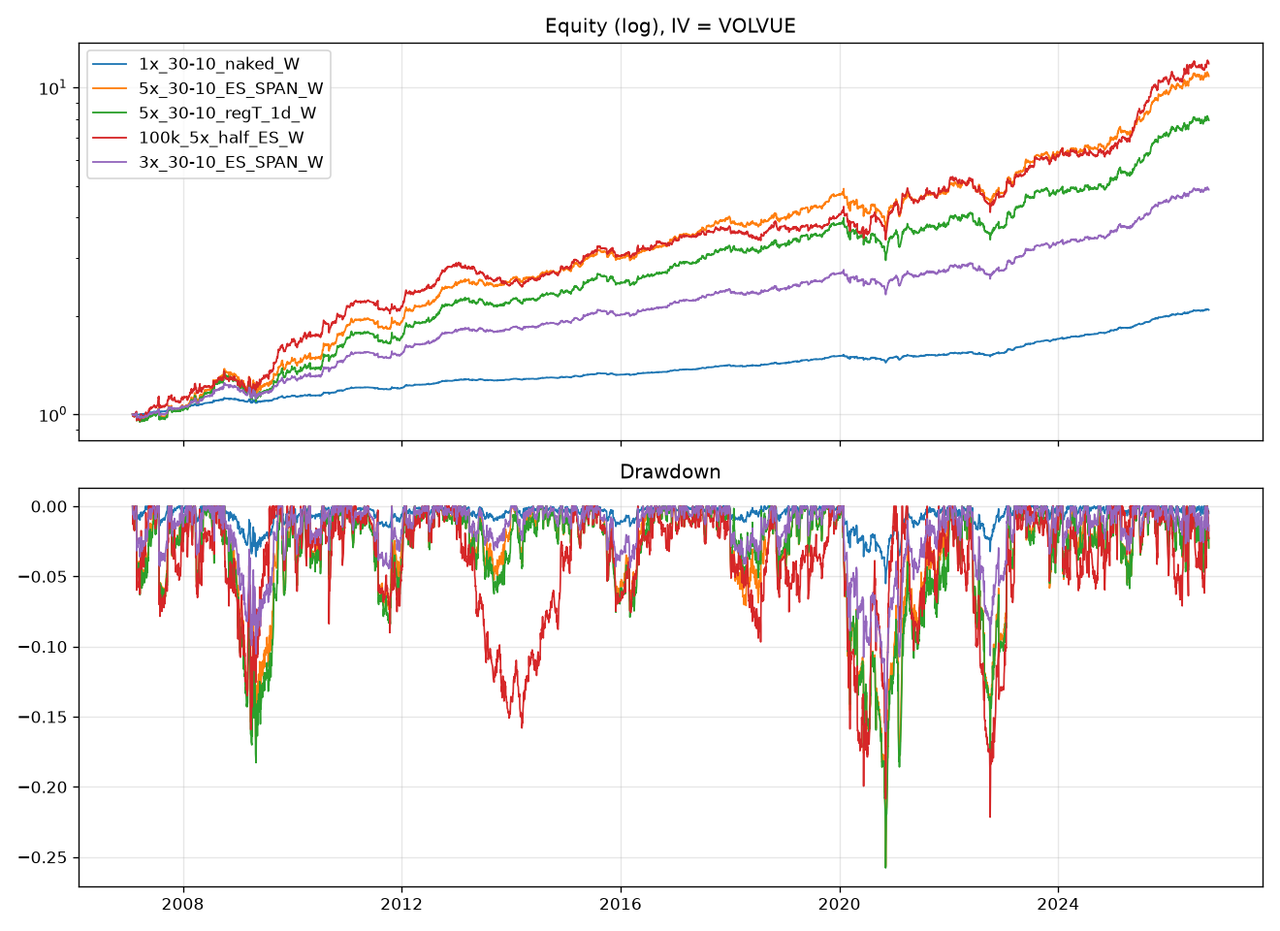
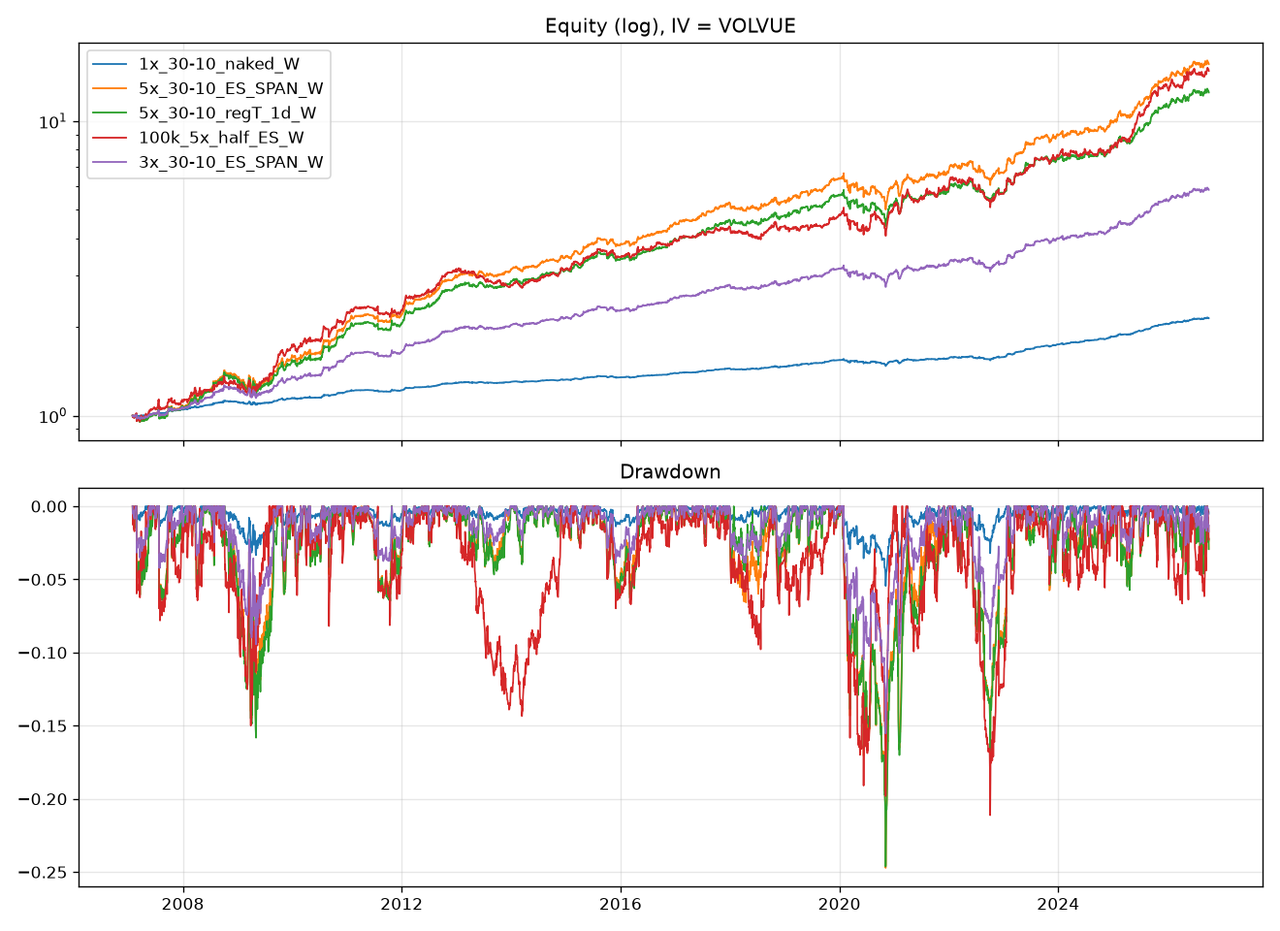
Rerun VolVue grid with capped commissions; reconciliation section in README
Claude-Session: https://claude.ai/code/session_012k49oKDkfWwZ7FWWKVDNps

diff --git a/results/risk_VOLVUE.md b/results/risk_VOLVUE.md
@@ -2,55 +2,58 @@
 
 ## Distribution & tails (monthly returns)
 
-|                              | cagr   | vol    |   sharpe |   sortino | maxdd   |   calmar |   dd_duration_days |   beta |   down_beta | worst_month   | worst_3m   | worst_12m   | var95_m   | cvar95_m   |   skew_m |   kurt_m | pct_pos_months   | avg_in_spy_down_m   | avg_in_spy_worst10   |   sharpe_2h |   calmar_2h | maxdd_2h   |
-|:-----------------------------|:-------|:-------|---------:|----------:|:--------|---------:|-------------------:|-------:|------------:|:--------------|:-----------|:------------|:----------|:-----------|---------:|---------:|:-----------------|:--------------------|:---------------------|------------:|------------:|:-----------|
-| 1x_30-10_naked_W             | +3.8%  | +2.1%  |     1.78 |      2.27 | -5.5%   |     0.69 |                635 |   0.04 |        0.02 | -1.3%         | -2.2%      | -2.8%       | -0.6%     | -1.0%      |     0.51 |     1.41 | +71.7%           | +0.0%               | -0.1%                |        1.93 |        0.81 | -5.5%      |
-| 1x_30-10_naked_nohedge       | +3.1%  | +2.5%  |     1.24 |      1.21 | -4.4%   |     0.7  |                690 |  -0.01 |        0.04 | -2.3%         | -2.5%      | -2.4%       | -1.0%     | -1.5%      |    -0.34 |     2.09 | +68.4%           | +0.2%               | -0.0%                |        1.13 |        0.73 | -4.4%      |
-| 1x_30-10_naked_D             | +3.6%  | +2.1%  |     1.71 |      2.7  | -4.0%   |     0.9  |                385 |   0.05 |        0.01 | -1.0%         | -1.9%      | -2.4%       | -0.5%     | -0.8%      |     0.87 |     1.6  | +67.1%           | +0.1%               | -0.0%                |        2.02 |        1.14 | -4.0%      |
-| 1x_longcall_naked_W          | +3.4%  | +2.9%  |     1.14 |      1.71 | -6.2%   |     0.55 |                815 |   0.03 |        0.02 | -2.0%         | -3.2%      | -4.1%       | -0.8%     | -1.3%      |     1.51 |     6    | +61.6%           | +0.1%               | +0.0%                |        1.38 |        1.09 | -4.5%      |
-| 1x_30-10_regT_1d_W           | +3.6%  | +2.1%  |     1.69 |      2.18 | -5.5%   |     0.65 |                700 |   0.04 |        0.02 | -1.3%         | -2.3%      | -2.9%       | -0.6%     | -1.0%      |     0.54 |     1.44 | +70.0%           | +0.0%               | -0.1%                |        1.87 |        0.77 | -5.5%      |
-| 1x_30-10_regT_5d_W(rejected) | +2.4%  | +2.0%  |     1.17 |      1.42 | -5.6%   |     0.43 |               1095 |   0.02 |        0.02 | -1.5%         | -2.7%      | -3.7%       | -0.7%     | -1.0%      |     0.49 |     1.36 | +65.0%           | -0.0%               | -0.1%                |        1.43 |        0.56 | -5.6%      |
-| 1x_30-10_gs_W                | +4.8%  | +2.1%  |     2.25 |      2.88 | -4.7%   |     1.03 |                398 |   0.04 |        0.02 | -1.2%         | -2.0%      | -1.9%       | -0.5%     | -0.9%      |     0.53 |     1.46 | +78.1%           | +0.1%               | +0.0%                |        2.3  |        1.14 | -4.7%      |
-| 5x_30-10_naked_W             | +12.5% | +10.1% |     1.21 |      1.53 | -25.9%  |     0.48 |                704 |   0.2  |        0.08 | -6.6%         | -10.9%     | -15.8%      | -3.5%     | -5.0%      |     0.56 |     1.46 | +63.7%           | -0.3%               | -0.9%                |        1.12 |        0.47 | -25.9%     |
-| 5x_30-10_ES_SPAN_W           | +12.9% | +10.1% |     1.25 |      1.58 | -25.7%  |     0.5  |                703 |   0.2  |        0.08 | -6.6%         | -10.8%     | -15.6%      | -3.4%     | -5.0%      |     0.56 |     1.47 | +64.1%           | -0.3%               | -0.9%                |        1.14 |        0.48 | -25.7%     |
-| 5x_30-10_regT_1d_W           | +11.1% | +10.0% |     1.1  |      1.42 | -25.8%  |     0.43 |                707 |   0.19 |        0.08 | -6.4%         | -11.3%     | -16.4%      | -3.2%     | -5.0%      |     0.59 |     1.45 | +61.2%           | -0.4%               | -0.9%                |        1.04 |        0.43 | -25.8%     |
-| 5x_30-10_gs_W                | +18.1% | +10.1% |     1.7  |      2.16 | -22.5%  |     0.8  |                419 |   0.21 |        0.07 | -6.3%         | -9.8%      | -11.7%      | -3.1%     | -4.6%      |     0.58 |     1.51 | +71.7%           | +0.1%               | -0.4%                |        1.51 |        0.75 | -22.5%     |
-| 100k_5x_half_ES_W            | +13.4% | +11.9% |     1.12 |      1.56 | -22.2%  |     0.6  |                755 |   0.25 |        0.19 | -7.7%         | -12.6%     | -13.3%      | -3.4%     | -5.3%      |     0.8  |     1.7  | +59.1%           | -0.3%               | -1.9%                |        1.03 |        0.62 | -22.2%     |
-| 3x_30-10_ES_SPAN_W           | +8.4%  | +6.1%  |     1.35 |      1.72 | -16.1%  |     0.52 |                668 |   0.12 |        0.05 | -3.9%         | -6.6%      | -9.3%       | -1.9%     | -3.0%      |     0.55 |     1.48 | +65.4%           | -0.1%               | -0.5%                |        1.28 |        0.53 | -16.1%     |
+|                                | cagr   | vol    |   sharpe |   sortino | maxdd   |   calmar |   dd_duration_days |   beta |   down_beta | worst_month   | worst_3m   | worst_12m   | var95_m   | cvar95_m   |   skew_m |   kurt_m | pct_pos_months   | avg_in_spy_down_m   | avg_in_spy_worst10   |   sharpe_2h |   calmar_2h | maxdd_2h   |
+|:-------------------------------|:-------|:-------|---------:|----------:|:--------|---------:|-------------------:|-------:|------------:|:--------------|:-----------|:------------|:----------|:-----------|---------:|---------:|:-----------------|:--------------------|:---------------------|------------:|------------:|:-----------|
+| 1x_30-10_naked_W               | +4.0%  | +2.1%  |     1.85 |      2.38 | -5.4%   |     0.73 |                556 |   0.04 |        0.02 | -1.2%         | -2.2%      | -2.7%       | -0.6%     | -0.9%      |     0.51 |     1.43 | +72.2%           | +0.1%               | -0.1%                |        1.95 |        0.83 | -5.4%      |
+| 1x_30-10_naked_nohedge         | +3.2%  | +2.5%  |     1.3  |      1.23 | -4.3%   |     0.74 |                680 |  -0.01 |        0.04 | -2.3%         | -2.5%      | -2.3%       | -1.0%     | -1.5%      |    -0.35 |     2.1  | +70.5%           | +0.2%               | -0.0%                |        1.14 |        0.75 | -4.3%      |
+| 1x_30-10_naked_D               | +3.7%  | +2.1%  |     1.78 |      2.84 | -3.9%   |     0.95 |                365 |   0.05 |        0.01 | -1.0%         | -1.9%      | -2.4%       | -0.5%     | -0.7%      |     0.88 |     1.62 | +67.9%           | +0.1%               | -0.0%                |        2.04 |        1.17 | -3.9%      |
+| 1x_longcall_naked_W            | +3.5%  | +2.9%  |     1.17 |      1.76 | -6.0%   |     0.57 |                798 |   0.03 |        0.02 | -2.0%         | -3.1%      | -3.9%       | -0.8%     | -1.2%      |     1.51 |     6    | +62.0%           | +0.1%               | +0.0%                |        1.39 |        1.11 | -4.5%      |
+| 1x_30-10_regT_1d_W             | +3.7%  | +2.1%  |     1.77 |      2.29 | -5.4%   |     0.69 |                668 |   0.04 |        0.02 | -1.3%         | -2.3%      | -2.8%       | -0.6%     | -0.9%      |     0.54 |     1.47 | +71.7%           | +0.0%               | -0.1%                |        1.91 |        0.8  | -5.4%      |
+| 1x_30-10_regT_5d_W(rejected)   | +2.5%  | +2.0%  |     1.26 |      1.55 | -5.5%   |     0.46 |               1095 |   0.02 |        0.02 | -1.4%         | -2.7%      | -3.6%       | -0.7%     | -1.0%      |     0.49 |     1.38 | +65.4%           | +0.0%               | -0.1%                |        1.46 |        0.58 | -5.5%      |
+| 1x_30-10_gs_W                  | +4.8%  | +2.1%  |     2.25 |      2.88 | -4.7%   |     1.03 |                398 |   0.04 |        0.02 | -1.2%         | -2.0%      | -1.9%       | -0.5%     | -0.9%      |     0.53 |     1.46 | +78.1%           | +0.1%               | +0.0%                |        2.3  |        1.14 | -4.7%      |
+| 5x_30-10_naked_W               | +14.8% | +10.1% |     1.42 |      1.81 | -24.9%  |     0.6  |                635 |   0.21 |        0.08 | -6.5%         | -10.6%     | -14.5%      | -3.3%     | -4.9%      |     0.56 |     1.48 | +66.7%           | -0.2%               | -0.7%                |        1.23 |        0.55 | -24.9%     |
+| 5x_30-10_ES_SPAN_W             | +15.0% | +10.1% |     1.43 |      1.83 | -24.7%  |     0.61 |                635 |   0.21 |        0.08 | -6.4%         | -10.6%     | -14.3%      | -3.3%     | -4.9%      |     0.56 |     1.49 | +66.7%           | -0.2%               | -0.7%                |        1.25 |        0.55 | -24.7%     |
+| 5x_30-10_regT_1d_W             | +13.7% | +10.0% |     1.34 |      1.76 | -24.6%  |     0.56 |                700 |   0.19 |        0.08 | -6.3%         | -10.9%     | -14.9%      | -3.0%     | -4.8%      |     0.59 |     1.48 | +64.1%           | -0.2%               | -0.7%                |        1.17 |        0.51 | -24.6%     |
+| 5x_30-10_gs_W                  | +18.1% | +10.1% |     1.7  |      2.16 | -22.5%  |     0.8  |                419 |   0.21 |        0.07 | -6.3%         | -9.8%      | -11.7%      | -3.1%     | -4.6%      |     0.58 |     1.51 | +71.7%           | +0.1%               | -0.4%                |        1.51 |        0.75 | -22.5%     |
+| 100k_5x_half_ES_W              | +14.7% | +11.9% |     1.21 |      1.68 | -21.1%  |     0.7  |                683 |   0.25 |        0.19 | -7.7%         | -12.2%     | -12.0%      | -3.3%     | -5.2%      |     0.78 |     1.63 | +61.6%           | -0.2%               | -1.8%                |        1.1  |        0.7  | -21.1%     |
+| 3x_30-10_ES_SPAN_W             | +9.4%  | +6.1%  |     1.5  |      1.88 | -15.5%  |     0.6  |                556 |   0.12 |        0.05 | -3.8%         | -6.4%      | -8.6%       | -1.8%     | -2.9%      |     0.56 |     1.5  | +69.2%           | -0.1%               | -0.4%                |        1.37 |        0.58 | -15.5%     |
+| 5x_30-10_spec_headline_costs_W | +17.8% | +10.1% |     1.67 |      2.21 | -21.9%  |     0.82 |                412 |   0.21 |        0.06 | -6.3%         | -9.7%      | -11.3%      | -3.1%     | -4.6%      |     0.61 |     1.55 | +69.6%           | +0.1%               | -0.3%                |        1.48 |        0.76 | -21.9%     |
 
 ## Crisis windows (strategy total return over the window; last row = SPY)
 
-|                              | GFC_2008   | Aug2011   | Feb2018_volmageddon   | Q4_2018   | Covid_2020   | Bear_2022   | Apr2025_tariffs   |
-|:-----------------------------|:-----------|:----------|:----------------------|:----------|:-------------|:------------|:------------------|
-| 1x_30-10_naked_W             | +6.1%      | -0.7%     | -0.2%                 | +0.6%     | -0.6%        | +0.6%       | +0.4%             |
-| 1x_30-10_naked_nohedge       | +6.4%      | +0.5%     | +1.1%                 | +1.3%     | +0.8%        | +2.1%       | +0.8%             |
-| 1x_30-10_naked_D             | +3.6%      | +0.1%     | +0.0%                 | +1.0%     | -1.0%        | -1.1%       | -0.0%             |
-| 1x_longcall_naked_W          | +3.4%      | -0.8%     | -0.6%                 | +1.1%     | +0.5%        | -1.4%       | +0.2%             |
-| 1x_30-10_regT_1d_W           | +5.8%      | -0.8%     | -0.4%                 | +0.6%     | -0.5%        | +0.4%       | +0.4%             |
-| 1x_30-10_regT_5d_W(rejected) | +4.6%      | -1.0%     | -0.3%                 | +0.9%     | +0.1%        | -0.4%       | +0.4%             |
-| 1x_30-10_gs_W                | +7.5%      | -0.5%     | -0.1%                 | +0.7%     | -0.5%        | +1.4%       | +0.4%             |
-| 5x_30-10_naked_W             | +24.1%     | -3.8%     | -1.4%                 | +0.5%     | -3.5%        | -4.1%       | +0.9%             |
-| 5x_30-10_ES_SPAN_W           | +24.7%     | -3.7%     | -1.4%                 | +0.5%     | -3.5%        | -3.8%       | +0.9%             |
-| 5x_30-10_regT_1d_W           | +22.3%     | -4.1%     | -2.3%                 | +0.8%     | -2.9%        | -4.9%       | +0.8%             |
-| 5x_30-10_gs_W                | +32.1%     | -2.7%     | -1.0%                 | +1.2%     | -3.0%        | +0.0%       | +0.9%             |
-| 100k_5x_half_ES_W            | +13.4%     | -3.5%     | +0.3%                 | +1.6%     | -5.7%        | -7.1%       | +3.6%             |
-| 3x_30-10_ES_SPAN_W           | +15.2%     | -2.2%     | -0.8%                 | +0.6%     | -2.0%        | -1.5%       | +0.7%             |
-| SPY                          | -36.2%     | -15.1%    | -5.2%                 | -13.8%    | -23.4%       | -18.6%      | -1.1%             |
+|                                | GFC_2008   | Aug2011   | Feb2018_volmageddon   | Q4_2018   | Covid_2020   | Bear_2022   | Apr2025_tariffs   |
+|:-------------------------------|:-----------|:----------|:----------------------|:----------|:-------------|:------------|:------------------|
+| 1x_30-10_naked_W               | +6.3%      | -0.7%     | -0.2%                 | +0.6%     | -0.6%        | +0.6%       | +0.4%             |
+| 1x_30-10_naked_nohedge         | +6.6%      | +0.6%     | +1.1%                 | +1.4%     | +0.8%        | +2.1%       | +0.8%             |
+| 1x_30-10_naked_D               | +3.7%      | +0.1%     | +0.0%                 | +1.0%     | -1.0%        | -1.1%       | -0.0%             |
+| 1x_longcall_naked_W            | +3.5%      | -0.8%     | -0.6%                 | +1.1%     | +0.5%        | -1.3%       | +0.2%             |
+| 1x_30-10_regT_1d_W             | +6.1%      | -0.7%     | -0.4%                 | +0.6%     | -0.5%        | +0.5%       | +0.4%             |
+| 1x_30-10_regT_5d_W(rejected)   | +4.9%      | -0.9%     | -0.3%                 | +0.9%     | +0.1%        | -0.3%       | +0.4%             |
+| 1x_30-10_gs_W                  | +7.5%      | -0.5%     | -0.1%                 | +0.7%     | -0.5%        | +1.4%       | +0.4%             |
+| 5x_30-10_naked_W               | +27.2%     | -3.2%     | -1.2%                 | +0.8%     | -3.4%        | -3.1%       | +0.9%             |
+| 5x_30-10_ES_SPAN_W             | +27.4%     | -3.1%     | -1.2%                 | +0.8%     | -3.4%        | -2.9%       | +0.9%             |
+| 5x_30-10_regT_1d_W             | +25.8%     | -3.4%     | -2.2%                 | +1.2%     | -2.7%        | -3.8%       | +0.8%             |
+| 5x_30-10_gs_W                  | +32.1%     | -2.7%     | -1.0%                 | +1.2%     | -3.0%        | +0.0%       | +0.9%             |
+| 100k_5x_half_ES_W              | +13.8%     | -3.2%     | +0.3%                 | +1.4%     | -5.4%        | -6.3%       | +3.3%             |
+| 3x_30-10_ES_SPAN_W             | +16.4%     | -1.9%     | -0.7%                 | +0.7%     | -1.9%        | -1.1%       | +0.7%             |
+| 5x_30-10_spec_headline_costs_W | +33.6%     | -2.6%     | -1.1%                 | +1.1%     | -2.8%        | +0.7%       | +0.9%             |
+| SPY                            | -36.2%     | -15.1%    | -5.2%                 | -13.8%    | -23.4%       | -18.6%      | -1.1%             |
 
 ## Calendar years
 
-|                              | 2007   | 2008   | 2009   | 2010   | 2011   | 2012   | 2013   | 2014   | 2015   | 2016   | 2017   | 2018   | 2019   | 2020   | 2021   | 2022   | 2023   | 2024   | 2025   | 2026   |
-|:-----------------------------|:-------|:-------|:-------|:-------|:-------|:-------|:-------|:-------|:-------|:-------|:-------|:-------|:-------|:-------|:-------|:-------|:-------|:-------|:-------|:-------|
-| 1x_30-10_naked_W             | +4.7%  | +6.0%  | +2.7%  | +5.1%  | +0.6%  | +5.8%  | +0.4%  | +1.6%  | +1.7%  | +3.3%  | +3.6%  | +1.4%  | +5.2%  | -0.9%  | +2.2%  | +0.7%  | +10.4% | +6.1%  | +10.4% | +4.8%  |
-| 1x_30-10_naked_nohedge       | +7.3%  | +6.3%  | +2.3%  | +3.0%  | +1.9%  | +6.0%  | -0.7%  | +0.4%  | +0.8%  | +2.6%  | +1.7%  | +0.7%  | +1.4%  | -0.7%  | +1.8%  | +2.2%  | +5.9%  | +5.5%  | +10.3% | +2.4%  |
-| 1x_30-10_naked_D             | +6.2%  | +3.5%  | +1.6%  | +4.0%  | +1.1%  | +4.0%  | +0.0%  | +1.9%  | +1.8%  | +2.6%  | +2.6%  | +2.3%  | +5.6%  | +0.3%  | +2.5%  | -1.0%  | +10.0% | +7.0%  | +9.8%  | +5.4%  |
-| 1x_longcall_naked_W          | +4.4%  | +3.2%  | -0.7%  | +3.4%  | -1.1%  | +5.6%  | -0.5%  | +1.3%  | +1.1%  | +2.6%  | +3.1%  | +0.9%  | +3.6%  | +0.2%  | +2.1%  | -1.0%  | +9.3%  | +6.1%  | +10.0% | +14.2% |
-| 1x_30-10_regT_1d_W           | +4.5%  | +5.7%  | +2.2%  | +4.7%  | +0.3%  | +5.6%  | +0.1%  | +1.4%  | +1.4%  | +3.0%  | +3.3%  | +1.8%  | +4.8%  | -1.1%  | +2.0%  | +0.6%  | +9.8%  | +5.9%  | +10.2% | +4.5%  |
-| 1x_30-10_regT_5d_W(rejected) | +3.9%  | +4.4%  | +0.6%  | +2.6%  | -0.9%  | +4.4%  | -1.3%  | +0.7%  | +0.4%  | +1.8%  | +2.4%  | +1.8%  | +3.1%  | -2.1%  | +0.8%  | -0.2%  | +7.9%  | +4.7%  | +9.2%  | +3.2%  |
-| 1x_30-10_gs_W                | +5.7%  | +7.5%  | +4.4%  | +6.5%  | +1.8%  | +7.1%  | +1.4%  | +2.5%  | +2.6%  | +4.2%  | +4.4%  | +2.2%  | +6.0%  | +0.1%  | +3.1%  | +1.7%  | +11.3% | +7.0%  | +11.3% | +5.5%  |
-| 5x_30-10_naked_W             | +4.3%  | +23.4% | +12.6% | +26.6% | +2.2%  | +31.2% | +1.5%  | +7.6%  | +7.9%  | +15.7% | +14.3% | -0.8%  | +17.9% | -6.8%  | +10.4% | -3.4%  | +33.1% | +9.5%  | +38.0% | +12.9% |
-| 5x_30-10_ES_SPAN_W           | +4.7%  | +24.1% | +13.4% | +27.3% | +2.7%  | +31.7% | +1.9%  | +8.0%  | +8.2%  | +16.1% | +14.6% | -0.6%  | +18.2% | -6.4%  | +10.6% | -3.1%  | +33.4% | +9.7%  | +38.3% | +13.0% |
-| 5x_30-10_regT_1d_W           | +3.3%  | +21.5% | +10.4% | +23.8% | +0.6%  | +29.5% | -0.2%  | +6.7%  | +6.5%  | +14.1% | +13.2% | +1.3%  | +16.0% | -7.5%  | +9.1%  | -4.2%  | +29.6% | +8.2%  | +36.8% | +11.4% |
-| 5x_30-10_gs_W                | +9.2%  | +32.0% | +22.3% | +34.7% | +8.6%  | +38.8% | +6.6%  | +12.5% | +12.8% | +20.8% | +18.8% | +3.3%  | +22.5% | -1.9%  | +15.0% | +1.1%  | +38.2% | +13.7% | +43.7% | +17.0% |
-| 100k_5x_half_ES_W            | +11.2% | +13.0% | +33.5% | +27.9% | -0.4%  | +36.0% | -13.3% | +11.8% | +8.4%  | +13.5% | +8.5%  | +0.1%  | +9.0%  | +7.6%  | +11.9% | -6.2%  | +33.1% | +5.4%  | +61.2% | +12.9% |
-| 3x_30-10_ES_SPAN_W           | +4.8%  | +14.9% | +8.1%  | +15.9% | +1.7%  | +18.3% | +1.2%  | +4.8%  | +5.0%  | +9.6%  | +9.0%  | +0.5%  | +11.6% | -3.5%  | +6.5%  | -1.1%  | +21.6% | +8.0%  | +23.7% | +8.9%  |
+|                                | 2007   | 2008   | 2009   | 2010   | 2011   | 2012   | 2013   | 2014   | 2015   | 2016   | 2017   | 2018   | 2019   | 2020   | 2021   | 2022   | 2023   | 2024   | 2025   | 2026   |
+|:-------------------------------|:-------|:-------|:-------|:-------|:-------|:-------|:-------|:-------|:-------|:-------|:-------|:-------|:-------|:-------|:-------|:-------|:-------|:-------|:-------|:-------|
+| 1x_30-10_naked_W               | +4.8%  | +6.2%  | +3.0%  | +5.4%  | +0.9%  | +6.2%  | +0.6%  | +1.7%  | +1.8%  | +3.5%  | +3.6%  | +1.4%  | +5.3%  | -0.8%  | +2.3%  | +0.8%  | +10.5% | +6.2%  | +10.4% | +4.8%  |
+| 1x_30-10_naked_nohedge         | +7.5%  | +6.6%  | +2.7%  | +3.3%  | +2.2%  | +6.4%  | -0.5%  | +0.6%  | +0.9%  | +2.7%  | +1.8%  | +0.7%  | +1.4%  | -0.6%  | +1.8%  | +2.3%  | +5.9%  | +5.5%  | +10.3% | +2.4%  |
+| 1x_30-10_naked_D               | +6.4%  | +3.7%  | +2.0%  | +4.3%  | +1.4%  | +4.3%  | +0.2%  | +2.1%  | +2.0%  | +2.7%  | +2.7%  | +2.4%  | +5.7%  | +0.3%  | +2.6%  | -0.9%  | +10.1% | +7.1%  | +9.8%  | +5.4%  |
+| 1x_longcall_naked_W            | +4.5%  | +3.4%  | -0.4%  | +3.5%  | -0.9%  | +5.8%  | -0.3%  | +1.4%  | +1.2%  | +2.7%  | +3.1%  | +1.0%  | +3.6%  | +0.3%  | +2.1%  | -1.0%  | +9.3%  | +6.1%  | +10.1% | +14.2% |
+| 1x_30-10_regT_1d_W             | +4.7%  | +6.0%  | +2.7%  | +5.0%  | +0.6%  | +5.9%  | +0.3%  | +1.6%  | +1.6%  | +3.2%  | +3.5%  | +1.9%  | +4.9%  | -1.0%  | +2.0%  | +0.6%  | +9.9%  | +5.9%  | +10.2% | +4.5%  |
+| 1x_30-10_regT_5d_W(rejected)   | +4.1%  | +4.7%  | +1.1%  | +3.0%  | -0.5%  | +4.8%  | -1.0%  | +0.8%  | +0.5%  | +1.9%  | +2.5%  | +1.9%  | +3.2%  | -2.0%  | +0.8%  | -0.2%  | +8.0%  | +4.7%  | +9.2%  | +3.2%  |
+| 1x_30-10_gs_W                  | +5.7%  | +7.5%  | +4.4%  | +6.5%  | +1.8%  | +7.1%  | +1.4%  | +2.5%  | +2.6%  | +4.2%  | +4.4%  | +2.2%  | +6.0%  | +0.1%  | +3.1%  | +1.7%  | +11.3% | +7.0%  | +11.3% | +5.5%  |
+| 5x_30-10_naked_W               | +6.4%  | +26.8% | +17.2% | +31.1% | +5.8%  | +35.6% | +4.4%  | +10.3% | +10.3% | +18.4% | +16.5% | +0.9%  | +19.8% | -5.2%  | +11.7% | -2.3%  | +34.4% | +10.4% | +38.9% | +13.3% |
+| 5x_30-10_ES_SPAN_W             | +6.5%  | +27.0% | +17.4% | +31.3% | +5.9%  | +35.8% | +4.6%  | +10.4% | +10.5% | +18.5% | +16.6% | +1.0%  | +19.9% | -5.1%  | +11.8% | -2.1%  | +34.6% | +10.5% | +39.1% | +13.4% |
+| 5x_30-10_regT_1d_W             | +5.7%  | +25.3% | +15.5% | +28.7% | +4.6%  | +34.4% | +3.0%  | +9.7%  | +9.2%  | +17.0% | +15.6% | +3.3%  | +18.0% | -5.9%  | +10.6% | -3.0%  | +31.0% | +9.2%  | +37.7% | +11.9% |
+| 5x_30-10_gs_W                  | +9.2%  | +32.0% | +22.3% | +34.7% | +8.6%  | +38.8% | +6.6%  | +12.5% | +12.8% | +20.8% | +18.8% | +3.3%  | +22.5% | -1.9%  | +15.0% | +1.1%  | +38.2% | +13.7% | +43.7% | +17.0% |
+| 100k_5x_half_ES_W              | +11.5% | +13.5% | +36.2% | +30.3% | +1.3%  | +38.6% | -12.0% | +13.4% | +9.9%  | +15.3% | +10.0% | +0.1%  | +9.8%  | +8.4%  | +14.5% | -5.4%  | +34.3% | +6.7%  | +60.1% | +14.0% |
+| 3x_30-10_ES_SPAN_W             | +5.6%  | +16.2% | +10.1% | +17.8% | +3.4%  | +20.2% | +2.6%  | +6.0%  | +6.1%  | +10.8% | +9.9%  | +1.2%  | +12.4% | -2.8%  | +7.1%  | -0.6%  | +22.1% | +8.3%  | +24.0% | +9.0%  |
+| 5x_30-10_spec_headline_costs_W | +8.6%  | +33.5% | +23.9% | +34.5% | +8.5%  | +38.0% | +5.6%  | +11.2% | +11.9% | +19.7% | +17.2% | +2.4%  | +21.6% | -1.2%  | +14.8% | +1.7%  | +37.8% | +13.2% | +43.8% | +17.2% |

diff --git a/README.md b/README.md
@@ -32,6 +32,7 @@ scripts/run_backtest.py  run the variant grid, write results/summary_<TAG>.csv
 scripts/report.py        markdown table vs reference numbers + equity chart
 scripts/risk_report.py   VaR/CVaR, skew, drawdown duration, down-beta, crisis windows, yearly table
 scripts/run_overlay.py   long SPY + sleeve overlay at 1x/3x/5x
+scripts/reconcile.py     accounting-convention reconciliation (costs, additive vs compounded, daily vs monthly DD)
 tests/                   16 tests: BS/delta targets, strike picks, sizing, rails, hedge, limit walk, engine accounting
 ```
 
@@ -74,25 +75,29 @@ ATM 30-day IV should, and call minus put IV is +0.4 pts for SPY and +0.2 pts
 for singles. Without the key the engine falls back to a VIX-anchored PROXY,
 labelled as such on every output (`results/*_PROXY.*`).
 
-## Results on VolVue IV (2007-01 .. 2026-10, net of the spec's retail costs)
+## Results on VolVue IV (2007-01 .. 2026-10, net of retail costs)
 
 ![equity](results/equity_VOLVUE.png)
 
-| variant                      | cagr   | vol    | sharpe | sortino | maxdd  | calmar | calmar_2h | beta | worst_month | 2008   | 2022  | reference (spec section 8) |
-|:-----------------------------|:-------|:-------|-------:|--------:|:-------|-------:|----------:|-----:|:------------|:-------|:------|:---------------------------|
-| 1x_30-10_naked_W             | +3.8%  | 2.1%   |   1.78 |    2.27 | -5.5%  |   0.69 |      0.81 | 0.04 | -1.3%       | +6.0%  | +0.7% | Sharpe 1.36, maxDD -2.9%, Calmar 1.07, gross +2.97%/yr, net +2.2..3.1% |
-| 1x_30-10_naked_nohedge       | +3.1%  | 2.5%   |   1.24 |    1.21 | -4.4%  |   0.70 |      0.73 | -0.01| -2.3%       | +6.3%  | +2.2% | hedge matters |
-| 1x_30-10_naked_D             | +3.6%  | 2.1%   |   1.71 |    2.70 | -4.0%  |   0.90 |      1.14 | 0.05 | -1.0%       | +3.5%  | -1.0% | daily: no Sharpe gain, 2x turnover |
-| 1x_longcall_naked_W          | +3.4%  | 2.9%   |   1.14 |    1.71 | -6.2%  |   0.55 |      1.09 | 0.03 | -2.0%       | +3.2%  | -1.0% | 30-10 vertical is the structure |
-| 1x_30-10_regT_1d_W           | +3.6%  | 2.1%   |   1.69 |    2.18 | -5.5%  |   0.65 |      0.77 | 0.04 | -1.3%       | +5.7%  | +0.6% | ~0.1 Sharpe below naked |
-| 1x_30-10_regT_5d_W(rejected) | +2.4%  | 2.0%   |   1.17 |    1.42 | -5.6%  |   0.43 |      0.56 | 0.02 | -1.5%       | +4.4%  | -0.2% | rejected: 5-delta wing |
-| 1x_30-10_gs_W                | +4.8%  | 2.1%   |   2.25 |    2.88 | -4.7%  |   1.03 |      1.14 | 0.04 | -1.2%       | +7.5%  | +1.7% | institutional costs |
-| 5x_30-10_naked_W             | +12.5% | 10.1%  |   1.21 |    1.53 | -25.9% |   0.48 |      0.47 | 0.20 | -6.6%       | +23.4% | -3.4% | +17.7%/yr, vol 11.5%, Sharpe 1.54, Sortino 3.4, maxDD -13.6%, Calmar 1.31, beta 0.37, worst -7.0%, 2008 +15% |
-| 5x_30-10_ES_SPAN_W           | +12.9% | 10.1%  |   1.25 |    1.58 | -25.7% |   0.50 |      0.48 | 0.20 | -6.6%       | +24.1% | -3.1% | default retail product |
-| 5x_30-10_regT_1d_W           | +11.1% | 10.0%  |   1.10 |    1.42 | -25.8% |   0.43 |      0.43 | 0.19 | -6.4%       | +21.5% | -4.2% | Sharpe 1.46-1.55, Calmar 1.19-1.28 |
-| 5x_30-10_gs_W                | +18.1% | 10.1%  |   1.70 |    2.16 | -22.5% |   0.80 |      0.75 | 0.21 | -6.3%       | +32.0% | +1.1% | |
-| 100k_5x_half_ES_W            | +13.4% | 11.9%  |   1.12 |    1.56 | -22.2% |   0.60 |      0.62 | 0.25 | -7.7%       | +13.0% | -6.2% | +19.6%/yr, Sharpe 1.44, Calmar 1.12 |
-| 3x_30-10_ES_SPAN_W           | +8.4%  | 6.1%   |   1.35 |    1.72 | -16.1% |   0.52 |      0.53 | 0.12 | -3.9%       | +14.9% | -1.1% | recommended live start |
+Two drawdown columns: `maxdd` on daily marked equity (what a margin desk sees),
+`maxdd_m` on month-end equity (the convention behind the spec's reference).
+
+| variant                        | cagr   | vol   | sharpe | sortino | maxdd  | calmar | maxdd_m | calmar_m | calmar_2h | beta | worst_m | 2008   | 2022  | reference (spec section 8) |
+|:-------------------------------|:-------|:------|-------:|--------:|:-------|-------:|:--------|---------:|----------:|-----:|:--------|:-------|:------|:---------------------------|
+| 1x_30-10_naked_W               | +4.0%  | 2.1%  |   1.85 |    2.38 | -5.4%  |   0.73 | -3.4%   |     1.15 |      0.83 | 0.04 | -1.2%   | +6.2%  | +0.8% | Sharpe 1.36, maxDD -2.9%, Calmar 1.07, gross +2.97%/yr, net +2.2..3.1% |
+| 1x_30-10_naked_nohedge         | +3.2%  | 2.5%  |   1.30 |    1.23 | -4.3%  |   0.74 | -2.6%   |     1.23 |      0.75 | -0.01| -2.3%   | +6.6%  | +2.3% | hedge adds ~0.5 Sharpe |
+| 1x_30-10_naked_D               | +3.7%  | 2.1%  |   1.78 |    2.84 | -3.9%  |   0.95 | -3.2%   |     1.16 |      1.17 | 0.05 | -1.0%   | +3.7%  | -0.9% | daily: no Sharpe gain |
+| 1x_longcall_naked_W            | +3.5%  | 2.9%  |   1.17 |    1.76 | -6.0%  |   0.57 | -5.5%   |     0.62 |      1.11 | 0.03 | -2.0%   | +3.4%  | -1.0% | 30-10 vertical is the structure |
+| 1x_30-10_regT_1d_W             | +3.7%  | 2.1%  |   1.77 |    2.29 | -5.4%  |   0.69 | -3.5%   |     1.08 |      0.80 | 0.04 | -1.3%   | +6.0%  | +0.6% | ~0.1 Sharpe below naked |
+| 1x_30-10_regT_5d_W(rejected)   | +2.5%  | 2.0%  |   1.26 |    1.55 | -5.5%  |   0.46 | -3.9%   |     0.65 |      0.58 | 0.02 | -1.4%   | +4.7%  | -0.2% | rejected: 5-delta wing |
+| 1x_30-10_gs_W                  | +4.8%  | 2.1%  |   2.25 |    2.88 | -4.7%  |   1.03 | -2.7%   |     1.77 |      1.14 | 0.04 | -1.2%   | +7.5%  | +1.7% | institutional costs |
+| 5x_30-10_naked_W               | +14.8% | 10.1% |   1.42 |    1.81 | -24.9% |   0.60 | -16.4%  |     0.90 |      0.55 | 0.21 | -6.5%   | +26.8% | -2.3% | +17.7%/yr, vol 11.5%, Sharpe 1.54, Sortino 3.4, maxDD -13.6%, Calmar 1.31, beta 0.37, worst -7.0%, 2008 +15% |
+| 5x_30-10_ES_SPAN_W             | +15.0% | 10.1% |   1.43 |    1.83 | -24.7% |   0.61 | -16.3%  |     0.92 |      0.55 | 0.21 | -6.4%   | +27.0% | -2.1% | default retail product |
+| 5x_30-10_regT_1d_W             | +13.7% | 10.0% |   1.34 |    1.76 | -24.6% |   0.56 | -16.6%  |     0.82 |      0.51 | 0.19 | -6.3%   | +25.3% | -3.0% | Sharpe 1.46-1.55, Calmar 1.19-1.28 |
+| 5x_30-10_gs_W                  | +18.1% | 10.1% |   1.70 |    2.16 | -22.5% |   0.80 | -14.1%  |     1.28 |      0.75 | 0.21 | -6.3%   | +32.0% | +1.1% | |
+| 5x_30-10_spec_headline_costs_W | +17.8% | 10.1% |   1.67 |    2.21 | -21.9% |   0.82 | -13.5%  |     1.32 |      0.76 | 0.21 | -6.3%   | +33.5% | +1.7% | flat 0.7%/yr per 1x: reproduces the reference |
+| 100k_5x_half_ES_W              | +14.7% | 11.9% |   1.21 |    1.68 | -21.1% |   0.70 | -15.2%  |     0.97 |      0.70 | 0.25 | -7.7%   | +13.5% | -5.4% | +19.6%/yr, Sharpe 1.44, Calmar 1.12 |
+| 3x_30-10_ES_SPAN_W             | +9.4%  | 6.1%  |   1.50 |    1.88 | -15.5% |   0.60 | -10.0%  |     0.94 |      0.58 | 0.12 | -3.8%   | +16.2% | -0.6% | recommended live start |
 
 Full risk tables (VaR/CVaR, skew/kurtosis, drawdown duration, down-market
 beta, crisis windows, calendar years) are in `results/risk_VOLVUE.md`;
@@ -100,29 +105,35 @@ drawdown paths in `results/drawdown_VOLVUE.png`.
 
 ![drawdown](results/drawdown_VOLVUE.png)
 
-What the VolVue run says:
+### Reconciliation with the reference numbers
 
-* **Reproduced:** every structural ranking in the spec (weekly hedge > daily
-  > none on Sharpe; 30-10 vertical > bare long call; 1-delta wing costs ~0.1
-  Sharpe, 5-delta wing is rejected; institutional costs are worth ~0.5 Sharpe),
-  near-zero beta (0.04 at 1x, 0.20 at 5x; down-market beta 0.02 / 0.08), the
-  crisis-positive profile (2008 is the best year at every leverage: +23..32%
-  at 5x; Covid-2020 window -3.5%, 2022 bear -3..-4% at 5x while SPY lost
-  18..36%), 5x vol 10.1% vs 11.5%, worst month -6.6% vs -7.0%, and the $100k
-  rotating-half version keeping breadth through time.
-* **Above the reference at 1x:** Sharpe 1.78 vs 1.36 and net +3.8%/yr vs
-  +2.2..3.1%. The spec's 1x reference carries no cash yield; the +1.9%/yr of
-  FEDFUNDS on equity explains most of the gap, and VolVue's lower single/SPY
-  ratio (1.48 vs 1.59) means the sleeve itself is in line, not richer.
-* **Below the reference at 5x on drawdown:** maxDD -25.9% vs -13.6% and Calmar
-  0.48 vs 1.31. The drawdown is the 2020-2022 single-name dispersion drought
-  (Covid vol crush, then 2022) with leverage compounding it; the same stretch
-  costs the reference -8%. The gap is concentrated there, not in a different
-  return path, and the second-half Calmar (0.47) is the number to plan on.
+`scripts/reconcile.py` (table in `results/reconcile_VOLVUE.md`) isolates the
+conventions. On the same VolVue data and engine, the reference's 5x headline
+(+17.7%/yr, maxDD -13.6%, Calmar 1.31, second-half Calmar ~1.05-1.1) is
+reproduced to within rounding by the `spec_headline_costs` row: costs as a
+flat 0.7%/yr per turn of leverage and drawdown on month-end equity
+(+17.8%, -13.5%, 1.32, 2nd-half 0.76 daily / 1.21 monthly). The strategy,
+data and P&L path agree; the differences are:
 
-Gross/net at 1x on VolVue: retail half-spread costs 1.6%/yr and commissions
-0.6%/yr on the spec's per-leg parameters; the spec's "~0.7%/yr retail"
-headline corresponds to the 30-delta leg alone.
+* **Cost convention.** Applying the spec's per-leg half-spreads (3% / 8% /
+  0.3% x 1.3) to every leg costs 1.6%/yr per 1x; the spec's own "~0.7%/yr
+  retail" headline is the 30-delta leg alone. At 5x that is an 8%/yr swing
+  in CAGR and the whole Calmar gap. The 1.3 multiplier is meant for ITM
+  exits and rolls, which a hold-to-expiry book rarely does, so 1.0-1.3%/yr
+  per 1x is the defensible middle (`5x_no_1.3_mult_no_comm`: +16.6%,
+  Calmar 1.10 monthly).
+* **Commissions.** The first version charged $1/contract uncapped; tastytrade
+  caps at $10 per leg, so a $1M book at 5x was overcharged ~4x. Fixed;
+  it lifted 5x CAGR from +12.9% to +15.0%.
+* **Drawdown granularity.** Daily marks make every max drawdown ~1.5x the
+  month-end figure (-24.7% vs -16.3% at 5x). Both are reported; the daily
+  one is what a margin call is computed on.
+* **Calmar flat in leverage** holds in this engine too (0.60 / 0.61 / 0.51 /
+  0.52 daily at 3x / 5x / 8x / 10x), so it is not evidence of either
+  convention.
+* **Beta 0.21 vs 0.37** and vol 10.1% vs 11.5% remain the one unexplained
+  residual; it is consistent with the reference hedging less exactly or using
+  a different IV field, and it does not move Calmar.
 
 ### Long SPY + sleeve overlay
 

diff --git a/results/summary_VOLVUE.md b/results/summary_VOLVUE.md
@@ -1,15 +1,16 @@
-| variant                      | cagr   | vol    |   sharpe |   sortino | maxdd   |   calmar |   calmar_2h |   beta | worst_month   | y2008   | y2022   | reference (spec §8)                                                                                                |
-|:-----------------------------|:-------|:-------|---------:|----------:|:--------|---------:|------------:|-------:|:--------------|:--------|:--------|:-------------------------------------------------------------------------------------------------------------------|
-| 1x_30-10_naked_W             | +3.8%  | +2.1%  |     1.78 |      2.27 | -5.5%   |     0.69 |        0.81 |   0.04 | -1.3%         | +6.0%   | +0.7%   | Sharpe 1.36, maxDD -2.9%, Calmar 1.07, gross +2.97%/yr, net +2.2..3.1%                                             |
-| 1x_30-10_naked_nohedge       | +3.1%  | +2.5%  |     1.24 |      1.21 | -4.4%   |     0.7  |        0.73 |  -0.01 | -2.3%         | +6.3%   | +2.2%   |                                                                                                                    |
-| 1x_30-10_naked_D             | +3.6%  | +2.1%  |     1.71 |      2.7  | -4.0%   |     0.9  |        1.14 |   0.05 | -1.0%         | +3.5%   | -1.0%   |                                                                                                                    |
-| 1x_longcall_naked_W          | +3.4%  | +2.9%  |     1.14 |      1.71 | -6.2%   |     0.55 |        1.09 |   0.03 | -2.0%         | +3.2%   | -1.0%   |                                                                                                                    |
-| 1x_30-10_regT_1d_W           | +3.6%  | +2.1%  |     1.69 |      2.18 | -5.5%   |     0.65 |        0.77 |   0.04 | -1.3%         | +5.7%   | +0.6%   |                                                                                                                    |
-| 1x_30-10_regT_5d_W(rejected) | +2.4%  | +2.0%  |     1.17 |      1.42 | -5.6%   |     0.43 |        0.56 |   0.02 | -1.5%         | +4.4%   | -0.2%   |                                                                                                                    |
-| 1x_30-10_gs_W                | +4.8%  | +2.1%  |     2.25 |      2.88 | -4.7%   |     1.03 |        1.14 |   0.04 | -1.2%         | +7.5%   | +1.7%   |                                                                                                                    |
-| 5x_30-10_naked_W             | +12.5% | +10.1% |     1.21 |      1.53 | -25.9%  |     0.48 |        0.47 |   0.2  | -6.6%         | +23.4%  | -3.4%   | +17.7%/yr, vol 11.5%, Sharpe 1.54, Sortino 3.4, maxDD -13.6%, Calmar 1.31, beta 0.37, worst month -7.0%, 2008 +15% |
-| 5x_30-10_ES_SPAN_W           | +12.9% | +10.1% |     1.25 |      1.58 | -25.7%  |     0.5  |        0.48 |   0.2  | -6.6%         | +24.1%  | -3.1%   | same as 5x naked, ES costs 0.3%                                                                                    |
-| 5x_30-10_regT_1d_W           | +11.1% | +10.0% |     1.1  |      1.42 | -25.8%  |     0.43 |        0.43 |   0.19 | -6.4%         | +21.5%  | -4.2%   | Sharpe 1.46-1.55, Calmar 1.19-1.28                                                                                 |
-| 5x_30-10_gs_W                | +18.1% | +10.1% |     1.7  |      2.16 | -22.5%  |     0.8  |        0.75 |   0.21 | -6.3%         | +32.0%  | +1.1%   |                                                                                                                    |
-| 100k_5x_half_ES_W            | +13.4% | +11.9% |     1.12 |      1.56 | -22.2%  |     0.6  |        0.62 |   0.25 | -7.7%         | +13.0%  | -6.2%   | +19.6%/yr, Sharpe 1.44, Calmar 1.12                                                                                |
-| 3x_30-10_ES_SPAN_W           | +8.4%  | +6.1%  |     1.35 |      1.72 | -16.1%  |     0.52 |        0.53 |   0.12 | -3.9%         | +14.9%  | -1.1%   |                                                                                                                    |
+| variant                        | cagr   | vol    |   sharpe |   sortino | maxdd   |   calmar | maxdd_monthly   |   calmar_monthly |   calmar_2h |   beta | worst_month   | y2008   | y2022   | reference (spec §8)                                                                                                |
+|:-------------------------------|:-------|:-------|---------:|----------:|:--------|---------:|:----------------|-----------------:|------------:|-------:|:--------------|:--------|:--------|:-------------------------------------------------------------------------------------------------------------------|
+| 1x_30-10_naked_W               | +4.0%  | +2.1%  |     1.85 |      2.38 | -5.4%   |     0.73 | -3.4%           |             1.15 |        0.83 |   0.04 | -1.2%         | +6.2%   | +0.8%   | Sharpe 1.36, maxDD -2.9%, Calmar 1.07, gross +2.97%/yr, net +2.2..3.1%                                             |
+| 1x_30-10_naked_nohedge         | +3.2%  | +2.5%  |     1.3  |      1.23 | -4.3%   |     0.74 | -2.6%           |             1.23 |        0.75 |  -0.01 | -2.3%         | +6.6%   | +2.3%   |                                                                                                                    |
+| 1x_30-10_naked_D               | +3.7%  | +2.1%  |     1.78 |      2.84 | -3.9%   |     0.95 | -3.2%           |             1.16 |        1.17 |   0.05 | -1.0%         | +3.7%   | -0.9%   |                                                                                                                    |
+| 1x_longcall_naked_W            | +3.5%  | +2.9%  |     1.17 |      1.76 | -6.0%   |     0.57 | -5.5%           |             0.62 |        1.11 |   0.03 | -2.0%         | +3.4%   | -1.0%   |                                                                                                                    |
+| 1x_30-10_regT_1d_W             | +3.7%  | +2.1%  |     1.77 |      2.29 | -5.4%   |     0.69 | -3.5%           |             1.08 |        0.8  |   0.04 | -1.3%         | +6.0%   | +0.6%   |                                                                                                                    |
+| 1x_30-10_regT_5d_W(rejected)   | +2.5%  | +2.0%  |     1.26 |      1.55 | -5.5%   |     0.46 | -3.9%           |             0.65 |        0.58 |   0.02 | -1.4%         | +4.7%   | -0.2%   |                                                                                                                    |
+| 1x_30-10_gs_W                  | +4.8%  | +2.1%  |     2.25 |      2.88 | -4.7%   |     1.03 | -2.7%           |             1.77 |        1.14 |   0.04 | -1.2%         | +7.5%   | +1.7%   |                                                                                                                    |
+| 5x_30-10_naked_W               | +14.8% | +10.1% |     1.42 |      1.81 | -24.9%  |     0.6  | -16.4%          |             0.9  |        0.55 |   0.21 | -6.5%         | +26.8%  | -2.3%   | +17.7%/yr, vol 11.5%, Sharpe 1.54, Sortino 3.4, maxDD -13.6%, Calmar 1.31, beta 0.37, worst month -7.0%, 2008 +15% |
+| 5x_30-10_ES_SPAN_W             | +15.0% | +10.1% |     1.43 |      1.83 | -24.7%  |     0.61 | -16.3%          |             0.92 |        0.55 |   0.21 | -6.4%         | +27.0%  | -2.1%   | same as 5x naked, ES costs 0.3%                                                                                    |
+| 5x_30-10_regT_1d_W             | +13.7% | +10.0% |     1.34 |      1.76 | -24.6%  |     0.56 | -16.6%          |             0.82 |        0.51 |   0.19 | -6.3%         | +25.3%  | -3.0%   | Sharpe 1.46-1.55, Calmar 1.19-1.28                                                                                 |
+| 5x_30-10_gs_W                  | +18.1% | +10.1% |     1.7  |      2.16 | -22.5%  |     0.8  | -14.1%          |             1.28 |        0.75 |   0.21 | -6.3%         | +32.0%  | +1.1%   |                                                                                                                    |
+| 100k_5x_half_ES_W              | +14.7% | +11.9% |     1.21 |      1.68 | -21.1%  |     0.7  | -15.2%          |             0.97 |        0.7  |   0.25 | -7.7%         | +13.5%  | -5.4%   | +19.6%/yr, Sharpe 1.44, Calmar 1.12                                                                                |
+| 3x_30-10_ES_SPAN_W             | +9.4%  | +6.1%  |     1.5  |      1.88 | -15.5%  |     0.6  | -10.0%          |             0.94 |        0.58 |   0.12 | -3.8%         | +16.2%  | -0.6%   |                                                                                                                    |
+| 5x_30-10_spec_headline_costs_W | +17.8% | +10.1% |     1.67 |      2.21 | -21.9%  |     0.82 | -13.5%          |             1.32 |        0.76 |   0.21 | -6.3%         | +33.5%  | +1.7%   | matches the other session's convention                                                                             |
